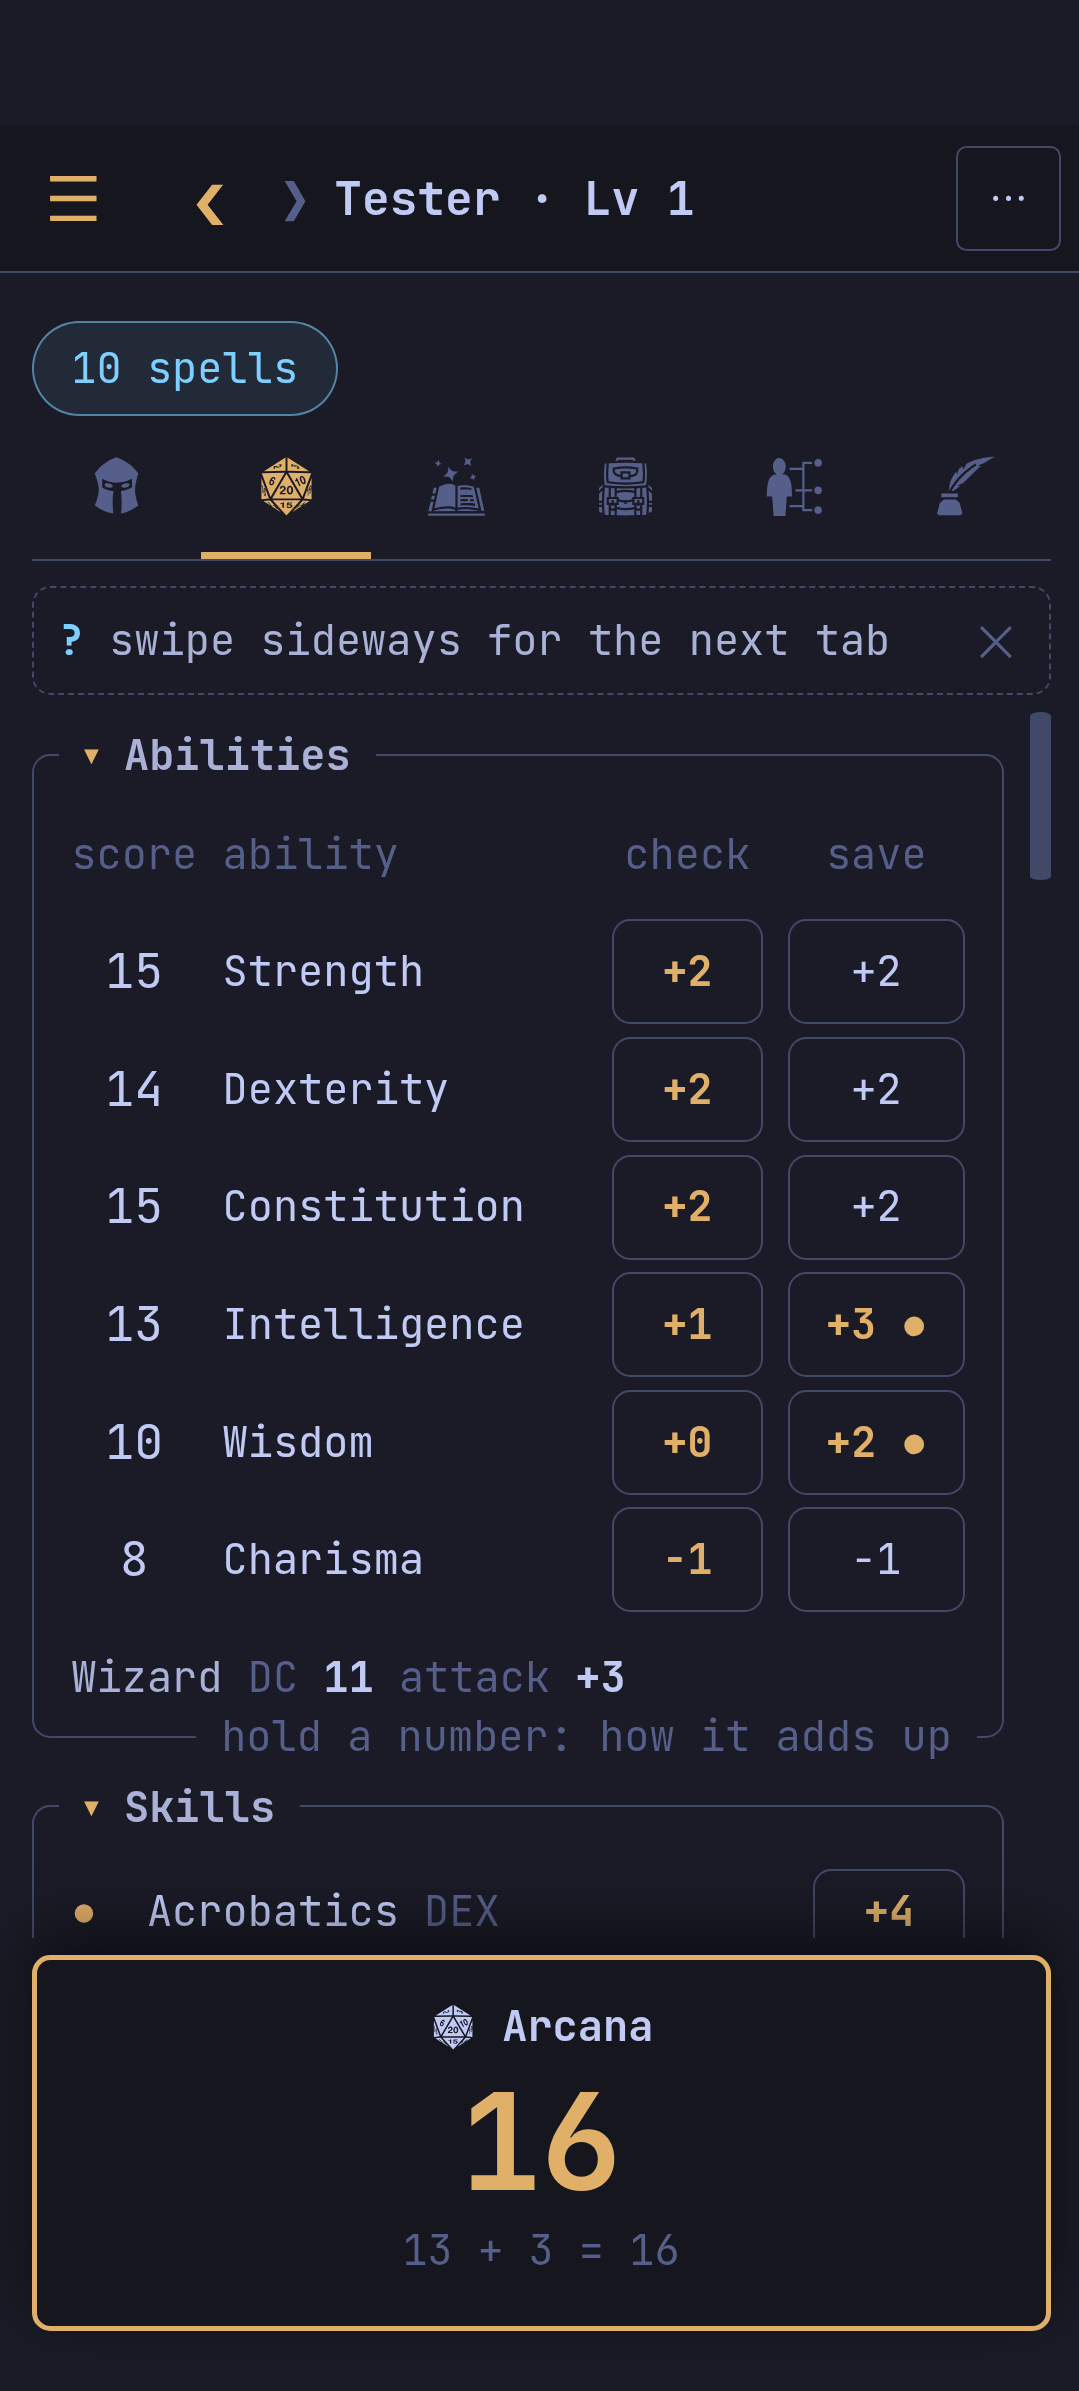
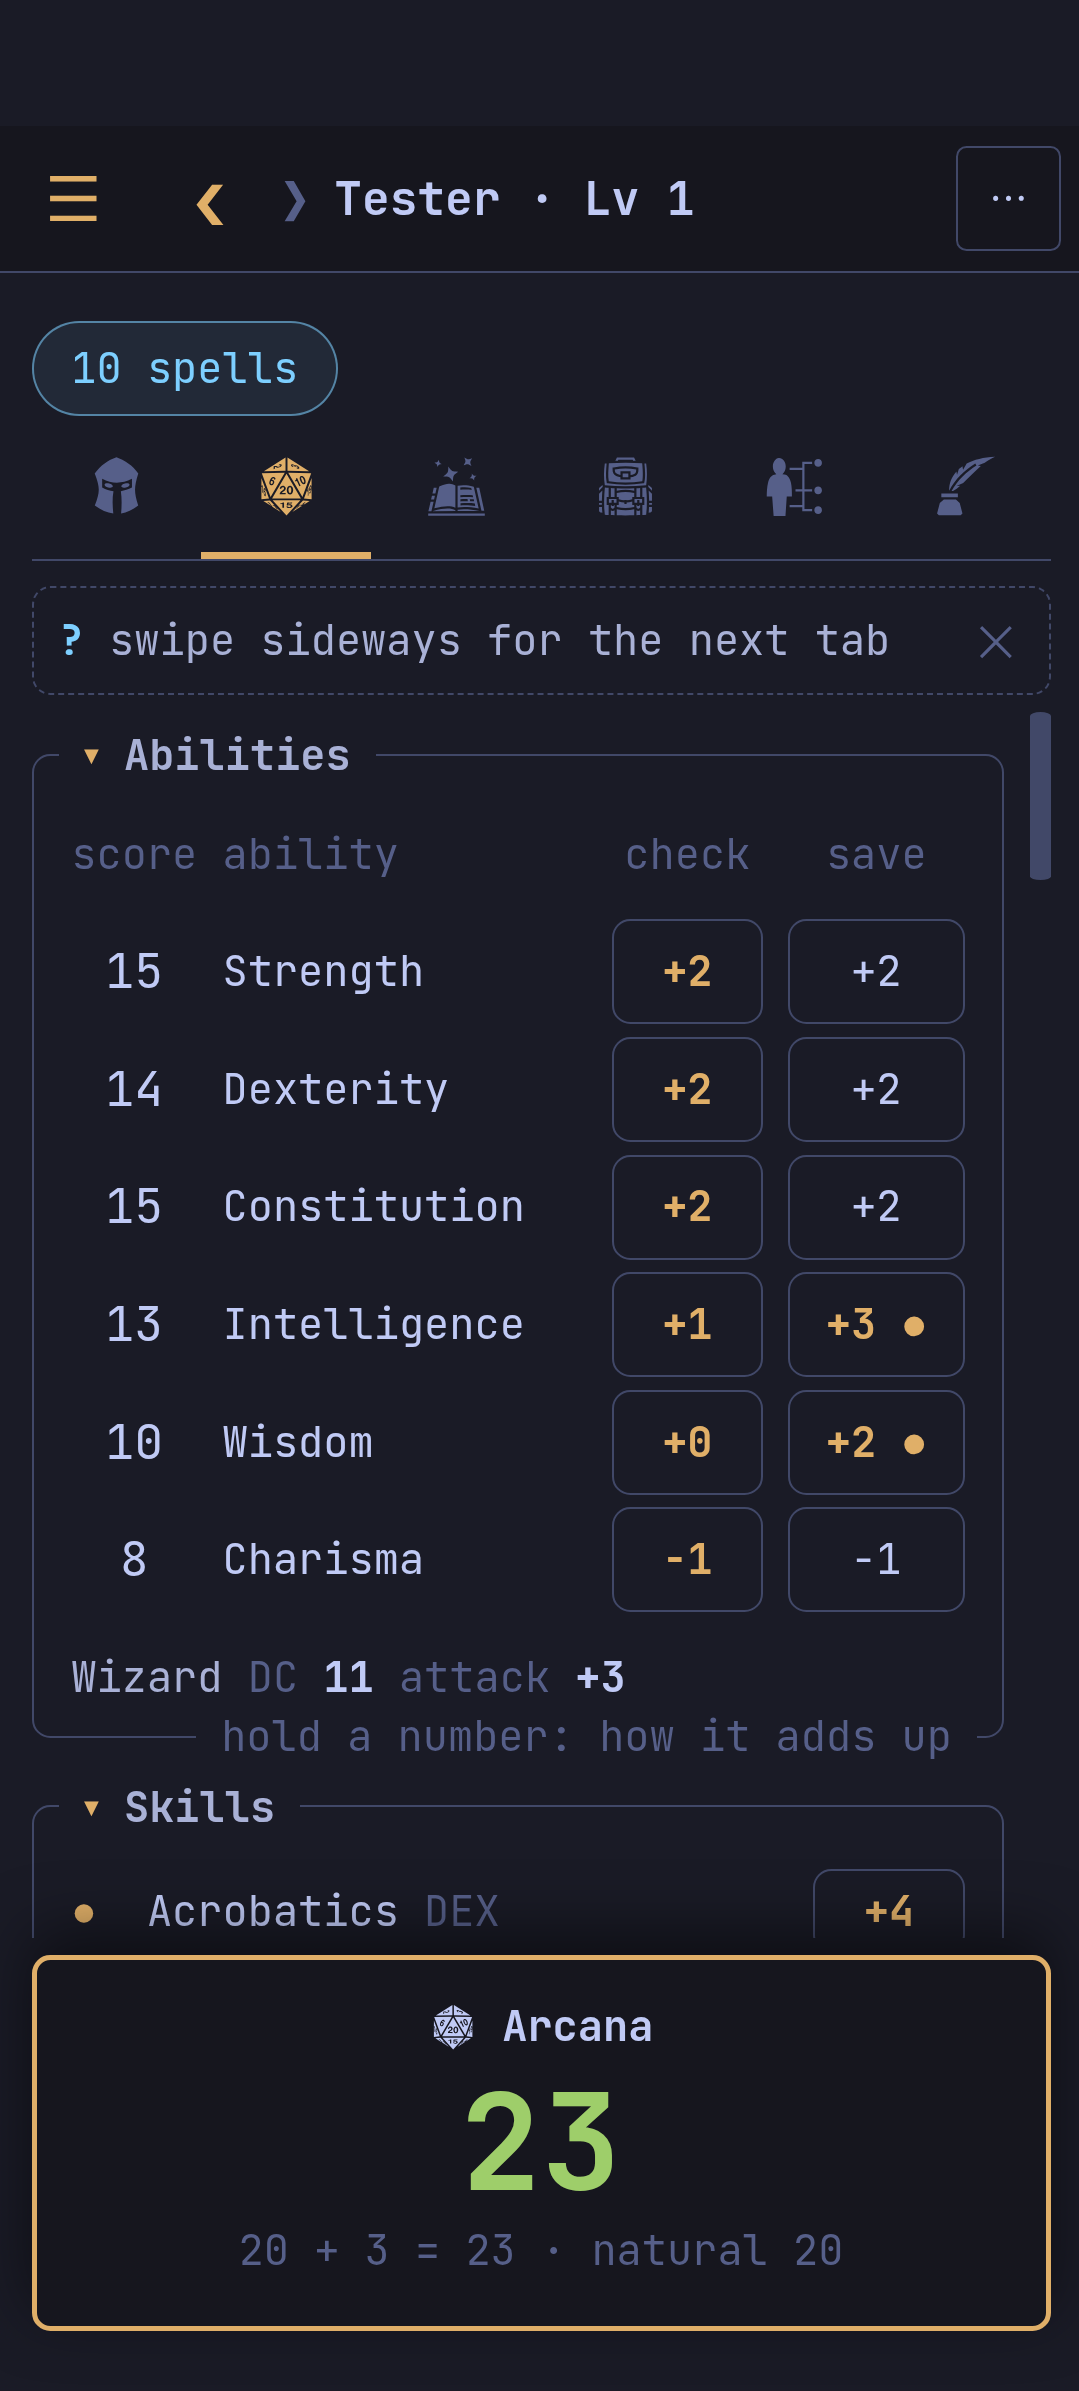
feat: the rules library opens folded
Its folders first, each with how many rules it has; a folder unfolds to
its files, folded too.

diff --git a/app/e2e/rules-library.spec.ts b/app/e2e/rules-library.spec.ts
@@ -6,6 +6,8 @@ import { dialog, expect, go, invoke, openSheet, test, useTestRulesLibrary } from
 const library = (page: Page) => dialog(page, "Rules library");
 /// A row's tick (a folder, a file or a rule), by its name.
 const tick = (page: Page, name: string) => library(page).getByRole("checkbox", { name });
+/// Unfold a folder or a file.
+const unfold = (page: Page, name: string) => library(page).getByRole("button", { name: `Unfold ${name}` }).click();
 /// The overview's tile with this label.
 const tile = (page: Page, label: string) => page.locator("button.tile", { hasText: label });
 
@@ -24,21 +26,27 @@ async function ownRules(page: Page) {
 
 test("the library is a tree of folders, files and rules", { tag: "@rules.library-browse" }, async ({ page }) => {
   await open(page);
-  // The SRD first, then the homebrew.
+  // Folded at first: the folders, the SRD first, then the homebrew.
   const names = await library(page).locator(".folder .name").allInnerTexts();
   expect(names).toEqual(["SRD", "Homebrew"]);
+  await expect(tick(page, "SRD")).toContainText("3 rule(s)");
+  await expect(tick(page, "Classes")).toHaveCount(0);
+  // Unfolded: its files, folded too; then a file's rules.
+  await unfold(page, "SRD");
   await expect(tick(page, "Classes")).toContainText("2 rule(s)");
+  await expect(tick(page, "Ritual Adept (Wizard 1)")).toHaveCount(0);
+  await unfold(page, "Classes");
   await expect(tick(page, "Ritual Adept (Wizard 1)")).toContainText("new");
   await expect(tick(page, "Favored Enemy (Ranger 1)")).toContainText("new · replaces dnt's own");
-  // A folder folds and unfolds.
+  // And folded again.
   await library(page).getByRole("button", { name: "Fold SRD" }).click();
   await expect(tick(page, "Classes")).toHaveCount(0);
-  await library(page).getByRole("button", { name: "Unfold SRD" }).click();
-  await expect(tick(page, "Classes")).toBeVisible();
 });
 
 test("ticked rules are imported and the sheet uses them", { tag: "@rules.library-import" }, async ({ page }) => {
   await open(page);
+  await unfold(page, "SRD");
+  await unfold(page, "Classes");
   // A whole file: its rules are ticked, its folder partly.
   await tick(page, "Classes").click();
   await expect(tick(page, "Ritual Adept (Wizard 1)")).toHaveAttribute("aria-checked", "true");
@@ -55,6 +63,8 @@ test("ticked rules are imported and the sheet uses them", { tag: "@rules.library
 test("rules that differ from yours ask to overwrite or keep", { tag: "@rules.library-conflict" }, async ({ page }) => {
   await ownRules(page);
   await open(page);
+  await unfold(page, "SRD");
+  await unfold(page, "Classes");
   await expect(tick(page, "Ritual Adept (Wizard 1)")).toContainText("differs from yours");
   await tick(page, "SRD").click();
   await library(page).getByRole("button", { name: "Import 3 rule(s)" }).click();
@@ -77,6 +87,7 @@ test("rules that differ from yours ask to overwrite or keep", { tag: "@rules.lib
 test("kept rules stay yours", { tag: "@rules.library-conflict" }, async ({ page }) => {
   await ownRules(page);
   await open(page);
+  await unfold(page, "SRD");
   await tick(page, "Classes").click();
   await library(page).getByRole("button", { name: "Import 2 rule(s)" }).click();
   await library(page).getByRole("button", { name: "Import", exact: true }).click();

diff --git a/app/src/lib/RulesLibrary.svelte b/app/src/lib/RulesLibrary.svelte
@@ -22,7 +22,11 @@
   // Once, when opened (not an effect: `working` reads and sets state).
   onMount(() => {
     working("Reading the rules library…", () => api.rulesLibrary())
-      .then((l) => (lib = l))
+      .then((l) => {
+        lib = l;
+        // Folded at first: the folders, then what is in one when unfolded.
+        folded = l.folders.flatMap((f) => [f.name, ...f.files.map((x) => x.path)]);
+      })
       .catch((e) => (error = String(e)));
   });
 
@@ -106,6 +110,7 @@
             <button class="fold" aria-label="{folded.includes(folder.name) ? 'Unfold' : 'Fold'} {folder.label}" onclick={() => fold(folder.name)}><span>{folded.includes(folder.name) ? "▸" : "▾"}</span></button>
             <button class="tick" role="checkbox" aria-checked={ticks(ids)} onclick={() => tick(ids)}>
               <span class="glyph">{glyph[ticks(ids)]}</span><span class="name">{folder.label}</span>
+              <span class="dim">{ids.length} rule(s)</span>
             </button>
           </div>
           {#if !folded.includes(folder.name)}

diff --git a/app/shots/screens.ts b/app/shots/screens.ts
@@ -64,7 +64,10 @@ test("the screens", async ({ page }) => {
   await useTestRulesLibrary(page);
   await go(page, "Data", "Rules");
   await page.getByRole("button", { name: "Open the rules library…" }).click();
-  await page.getByRole("dialog", { name: "Rules library" }).getByRole("checkbox", { name: "Classes" }).click();
+  const library = page.getByRole("dialog", { name: "Rules library" });
+  await library.getByRole("button", { name: "Unfold SRD" }).click();
+  await library.getByRole("button", { name: "Unfold Classes" }).click();
+  await library.getByRole("checkbox", { name: "Classes" }).click();
   await shot(page, "app-rules-library");
   await page.keyboard.press("Escape");
 

diff --git a/crates/dnt/tests/e2e/library.rs b/crates/dnt/tests/e2e/library.rs
@@ -22,21 +22,25 @@ fn own_rules(home: &Home) {
 fn the_library_is_a_tree_of_folders_files_and_rules() {
     let mut t = Tui::scenario("rules.library-browse", Home::party());
     library(&mut t);
-    // The SRD first, then the homebrew; each rule says what it would do.
-    see(&mut t, "▾ ○ SRD");
+    // Folded at first: the folders (the SRD first, then the homebrew).
+    see(&mut t, "▸ ○ SRD  3 rule(s)");
+    see(&mut t, "▸ ○ Homebrew  1 rule(s)");
+    let s = t.screen();
+    assert!(s.find("SRD").unwrap() < s.find("Homebrew").unwrap(), "{s}");
+    assert!(!t.shows("Classes"), "{}", t.screen());
+    // Unfolded: its files, folded too; then a file's rules, each saying
+    // what it would do.
+    t.send("l");
+    see(&mut t, "▸ ○ Classes  2 rule(s)");
+    assert!(!t.shows("Ritual Adept"), "{}", t.screen());
+    t.send("j").send("l");
     see(&mut t, "▾ ○ Classes  2 rule(s)");
     assert!(row(&t, "Ritual Adept (Wizard 1)").contains("new"), "{}", t.screen());
     assert!(row(&t, "Favored Enemy (Ranger 1)").contains("new · replaces dnt's own"), "{}", t.screen());
-    see(&mut t, "Savage Attacker (feat)");
-    see(&mut t, "▾ ○ Homebrew");
-    let s = t.screen();
-    assert!(s.find("SRD").unwrap() < s.find("Homebrew").unwrap(), "{s}");
-    // A folder folds and unfolds.
-    t.send("h");
+    // And folded again, from its folder.
+    t.send("g").send("h");
     see(&mut t, "▸ ○ SRD");
     t.wait_gone("Ritual Adept");
-    t.send("l");
-    see(&mut t, "Ritual Adept (Wizard 1)");
     t.send(ESC).wait_gone("Rules library");
     // And from the shell.
     let out = run("rules.library-browse", &t.home, &["rules"]);
@@ -50,11 +54,12 @@ fn checked_rules_are_imported_and_the_sheet_uses_them() {
     let mut t = Tui::scenario("rules.library-import", Home::party());
     library(&mut t);
     // A whole file: its rules are checked, its folder partly.
-    t.send("j").send(" ");
-    see(&mut t, "▾ ● Classes");
+    t.send("l").send("j").send(" ");
+    see(&mut t, "▸ ● Classes");
     see(&mut t, "▾ ◐ SRD");
     t.send(ENTER);
     wait_status(&mut t, "Imported 2 rule(s)");
+    t.send("l");
     assert!(row(&t, "Ritual Adept (Wizard 1)").contains("yours already"), "{}", t.screen());
     t.send(ESC).wait_gone("Rules library");
     // Ritual Adept's (invented) five feet.
@@ -73,9 +78,10 @@ fn rules_that_differ_from_yours_ask_to_overwrite_or_keep() {
     own_rules(&home);
     let mut t = Tui::scenario("rules.library-conflict", home);
     library(&mut t);
+    t.send("l").send("j").send("l");
     assert!(row(&t, "Ritual Adept (Wizard 1)").contains("differs from yours"), "{}", t.screen());
     // The whole SRD: Ritual Adept asks, kept by default.
-    t.send(" ").send(ENTER);
+    t.send("g").send(" ").send(ENTER);
     see(&mut t, "These differ from your rules for the same features");
     assert!(row(&t, "Ritual Adept (Wizard 1)").contains("‹keep›"), "{}", t.screen());
     t.send("O");

diff --git a/crates/dnt/src/library_view.rs b/crates/dnt/src/library_view.rs
@@ -45,8 +45,11 @@ enum Row {
 }
 
 impl LibraryView {
+    /// Folded at first: the folders, then what is in one when unfolded.
     pub fn new(files: Vec<(String, String)>, lib: RulesLibrary) -> LibraryView {
-        LibraryView { files, lib, checked: BTreeSet::new(), folded: BTreeSet::new(), cursor: 0, conflicts: None, conflict_cursor: 0 }
+        let folded =
+            lib.folders.iter().flat_map(|f| std::iter::once(f.name.clone()).chain(f.files.iter().map(|x| x.path.clone()))).collect();
+        LibraryView { files, lib, checked: BTreeSet::new(), folded, cursor: 0, conflicts: None, conflict_cursor: 0 }
     }
 
     /// After an import: the statuses again, nothing checked.
@@ -238,10 +241,12 @@ impl LibraryView {
                 let line = match row {
                     Row::Folder(i) => {
                         let f = &self.lib.folders[i];
+                        let n: usize = f.files.iter().map(|x| x.rules.len()).sum();
                         vec![
                             Span::raw(fold(self.key_of(row))),
                             Span::raw(format!("{} ", self.mark(row))),
                             Span::styled(f.label.clone(), theme.label),
+                            Span::styled(format!("  {n} rule(s)"), theme.dim),
                         ]
                     }
                     Row::File(i, j) => {

diff --git a/CHANGELOG.md b/CHANGELOG.md
@@ -27,7 +27,8 @@ become the release page.
 - The rules library (github.com/v0v3s/dnt-rules): rules for features of
   the SRD and of homebrew, browsed as a tree of folders, files and rules,
   and imported as your own rules, a whole folder or single rules at once.
-  Rules that differ from yours ask to overwrite or keep, each or all.
+  Folded at first, each folder saying how many rules it has. Rules that
+  differ from yours ask to overwrite or keep, each or all.
   *Data › Rules library*; `L` on Campaigns; `dnt rules`.
 
 ### Changed
